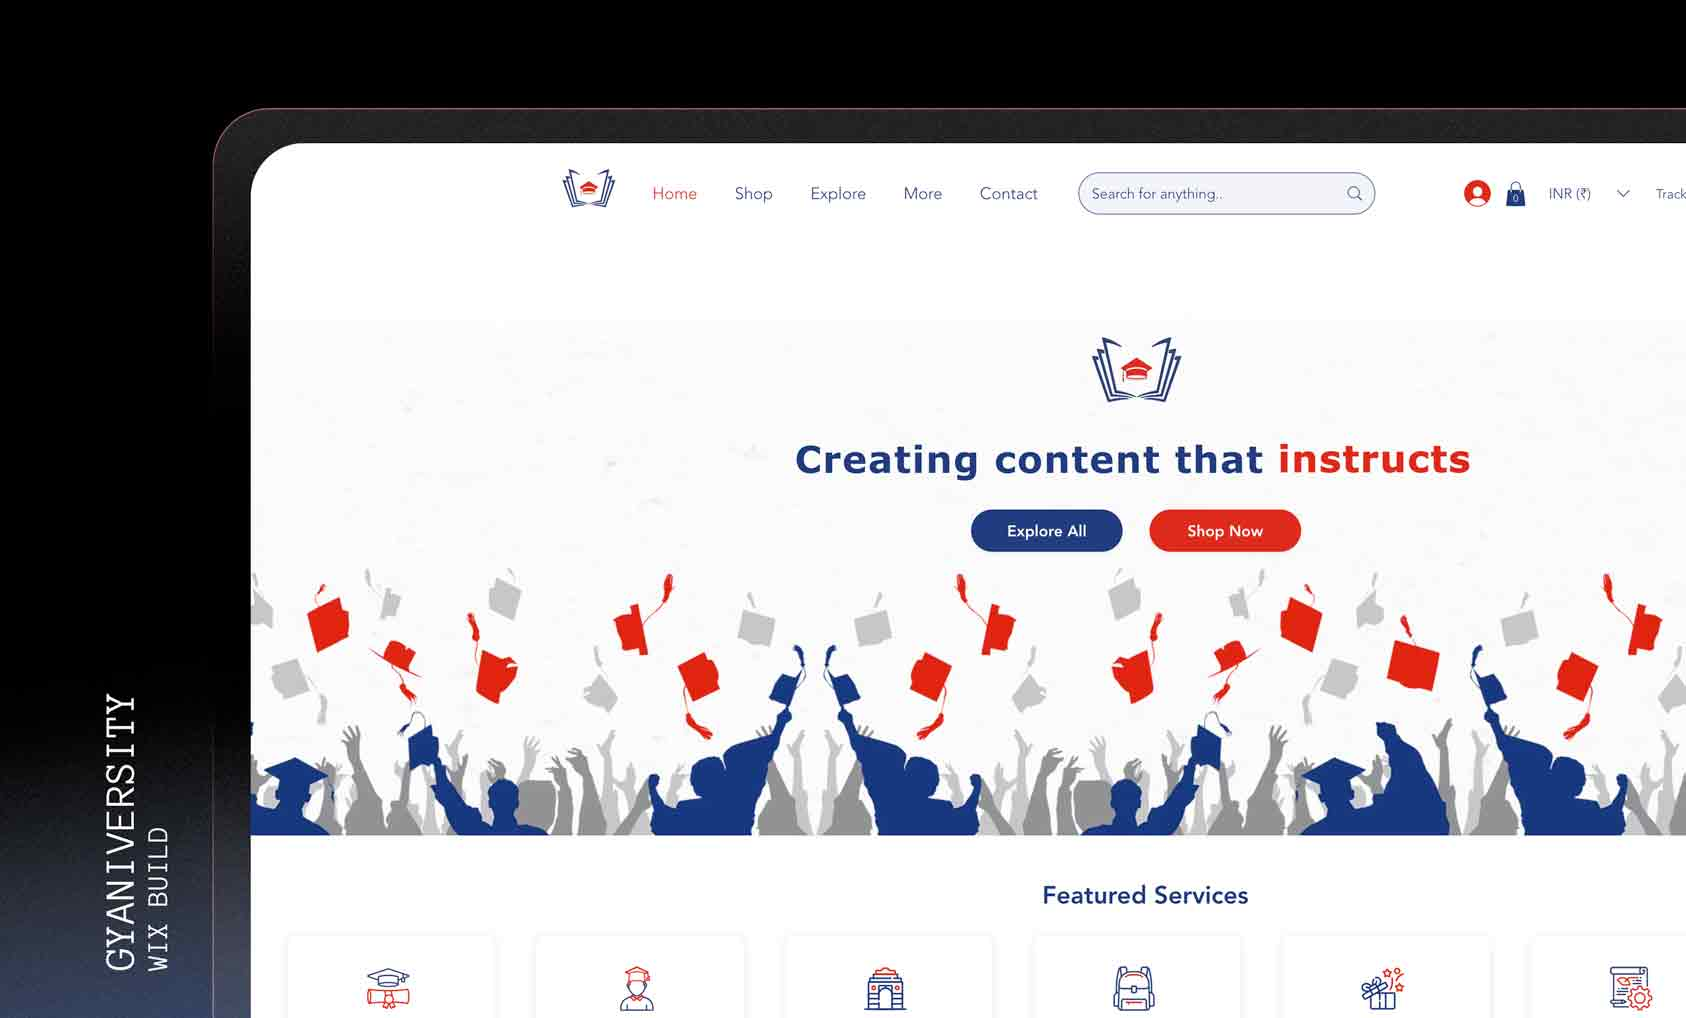
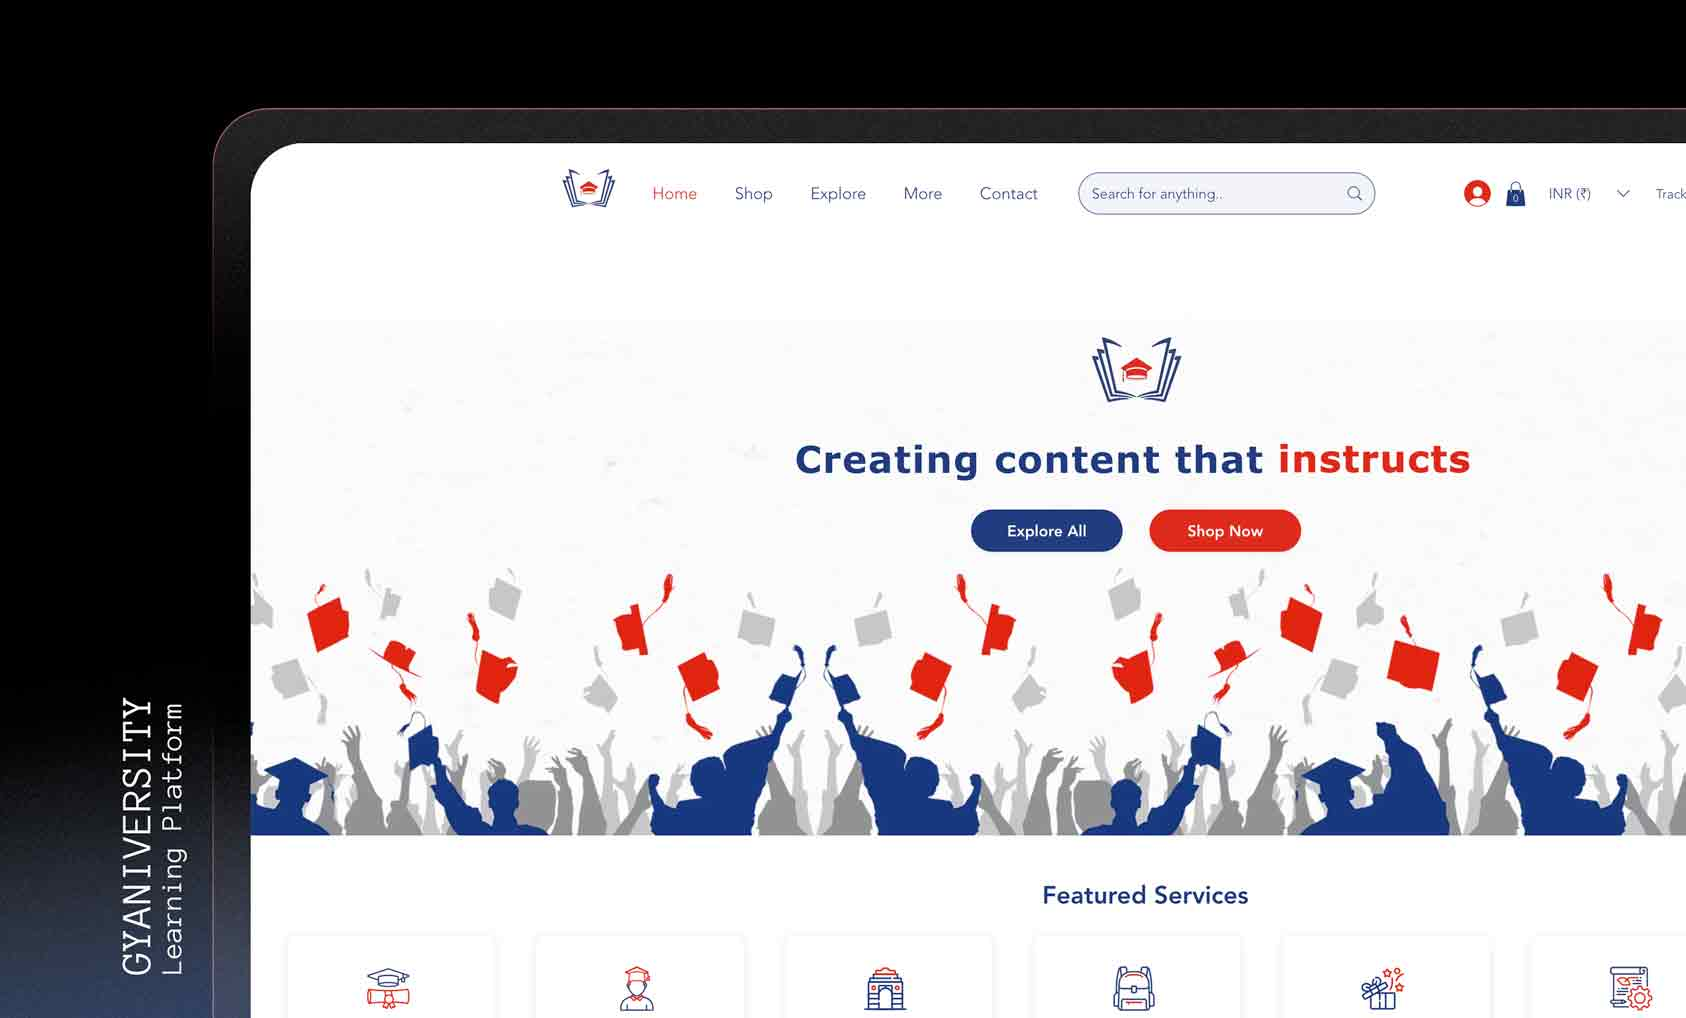
Initial commit

Changed region(s): [[0.0617, 0.6699, 0.1234, 0.9745]]

diff --git a/src/components/PortfolioSection.jsx b/src/components/PortfolioSection.jsx
@@ -16,8 +16,8 @@ const PortfolioSection = () => {
     },
     {
       title: "TaskForge App",
-      category: "Production Tracker WebApp",
-      description: "A heavy-duty tracking tool for streamlining complex production workflows.",
+      category: "Production Workflow Tracker",
+      description: "A smart production management web app built to simplify and monitor complex manufacturing and workflow operations in real time.",
       image: taskForgeImg,
       link: "https://taskforge.imagilabs.in"
     },